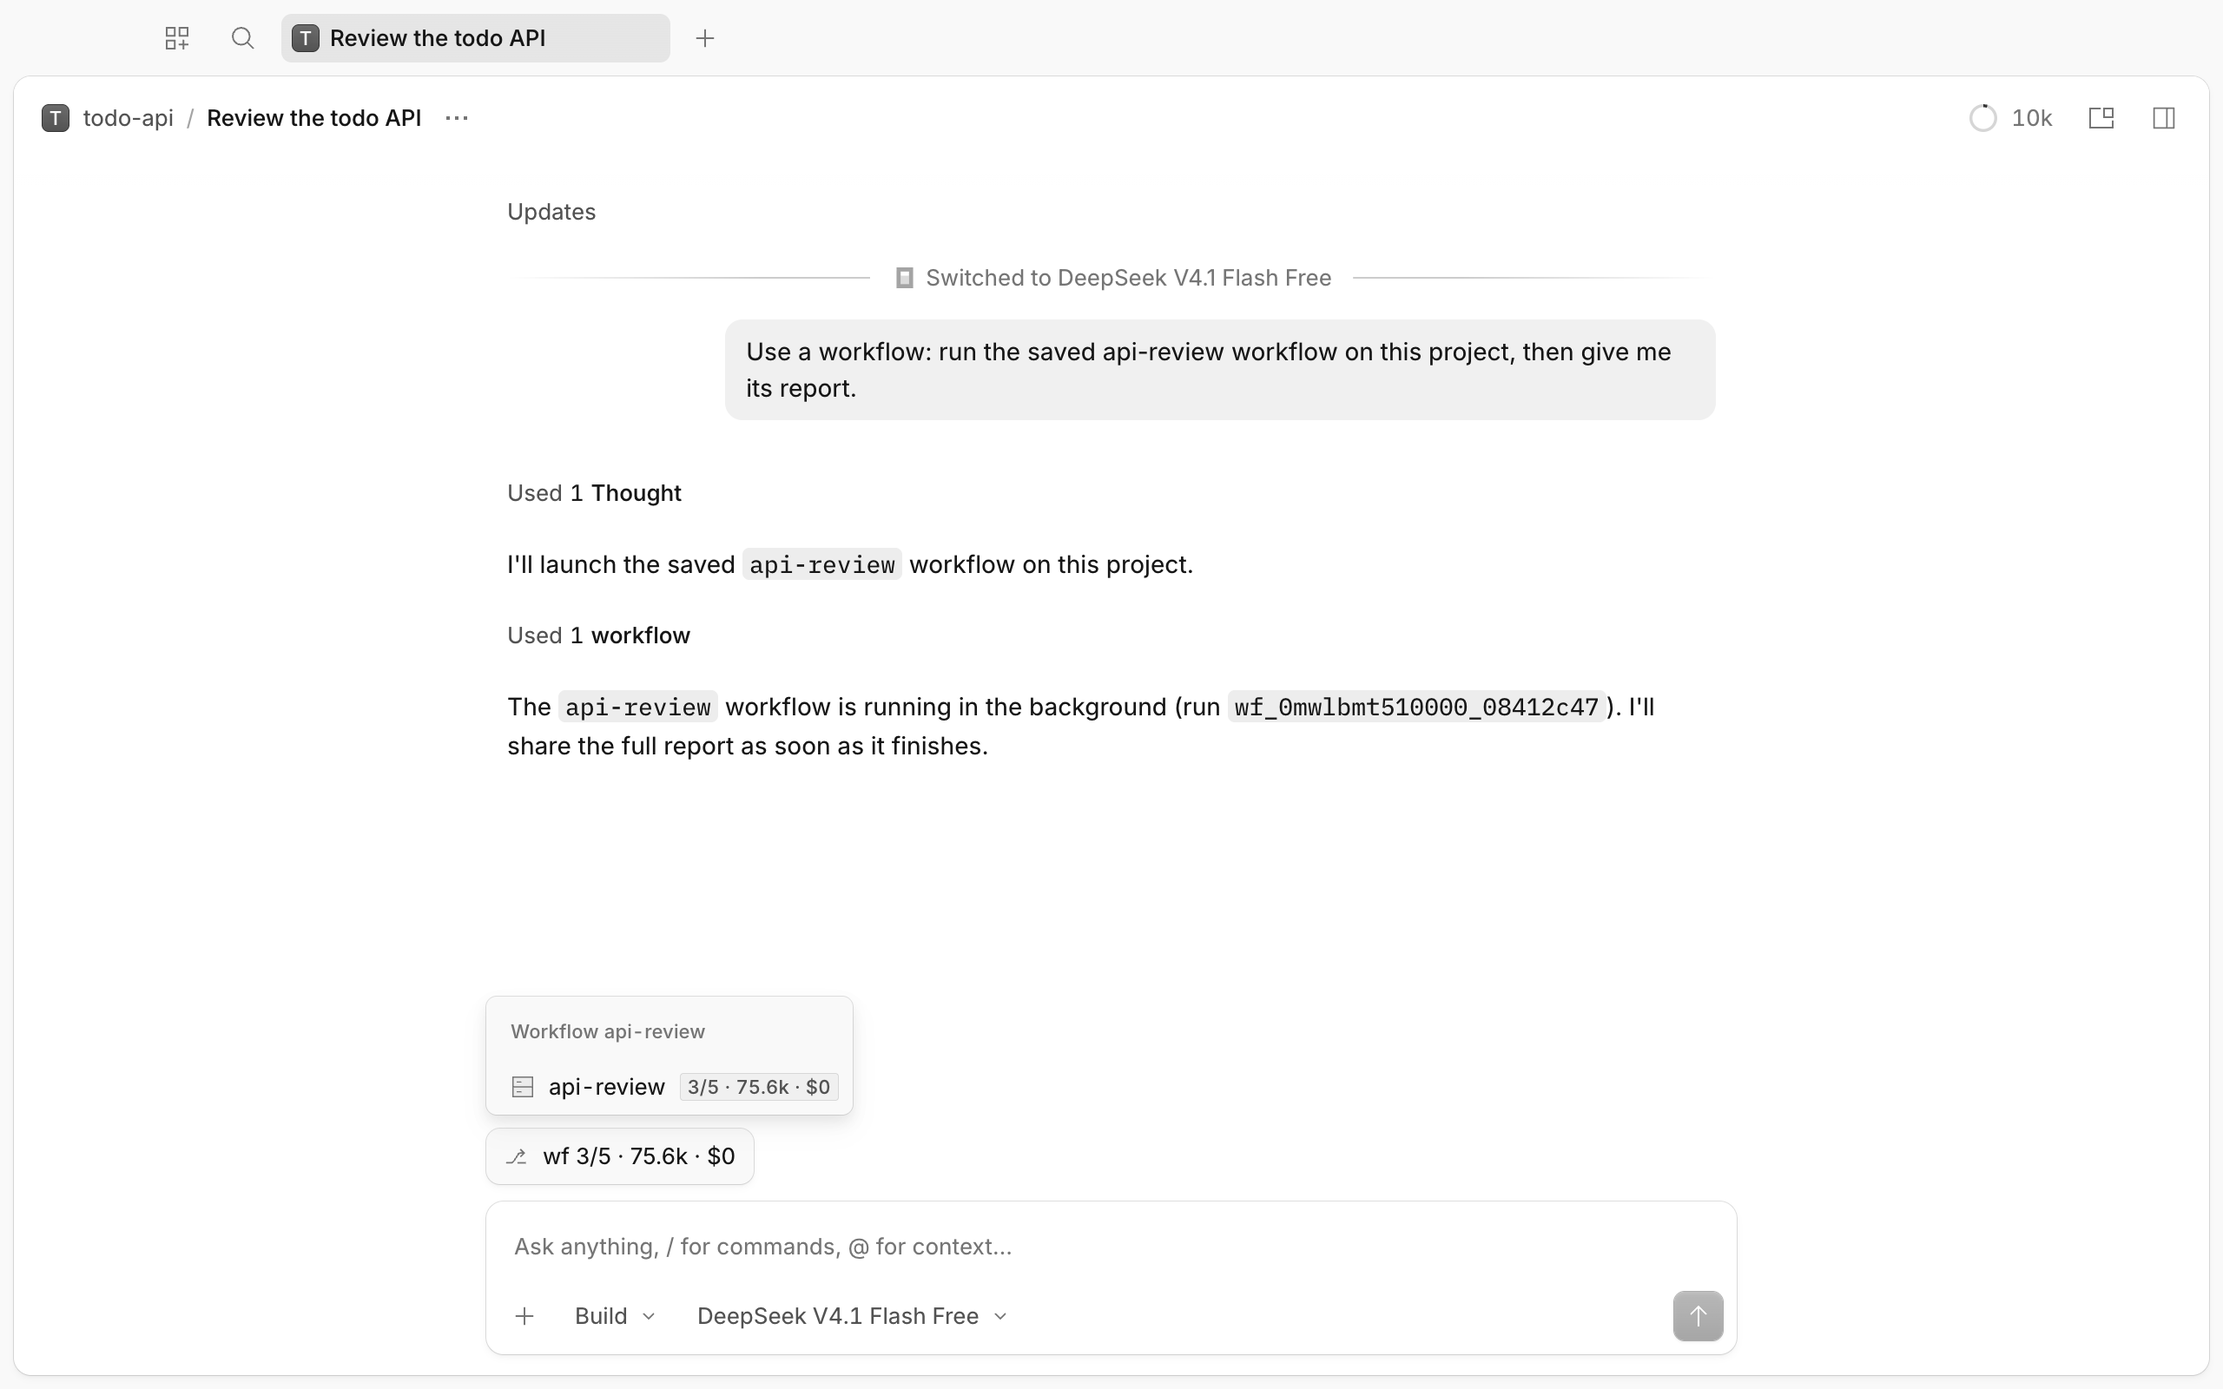
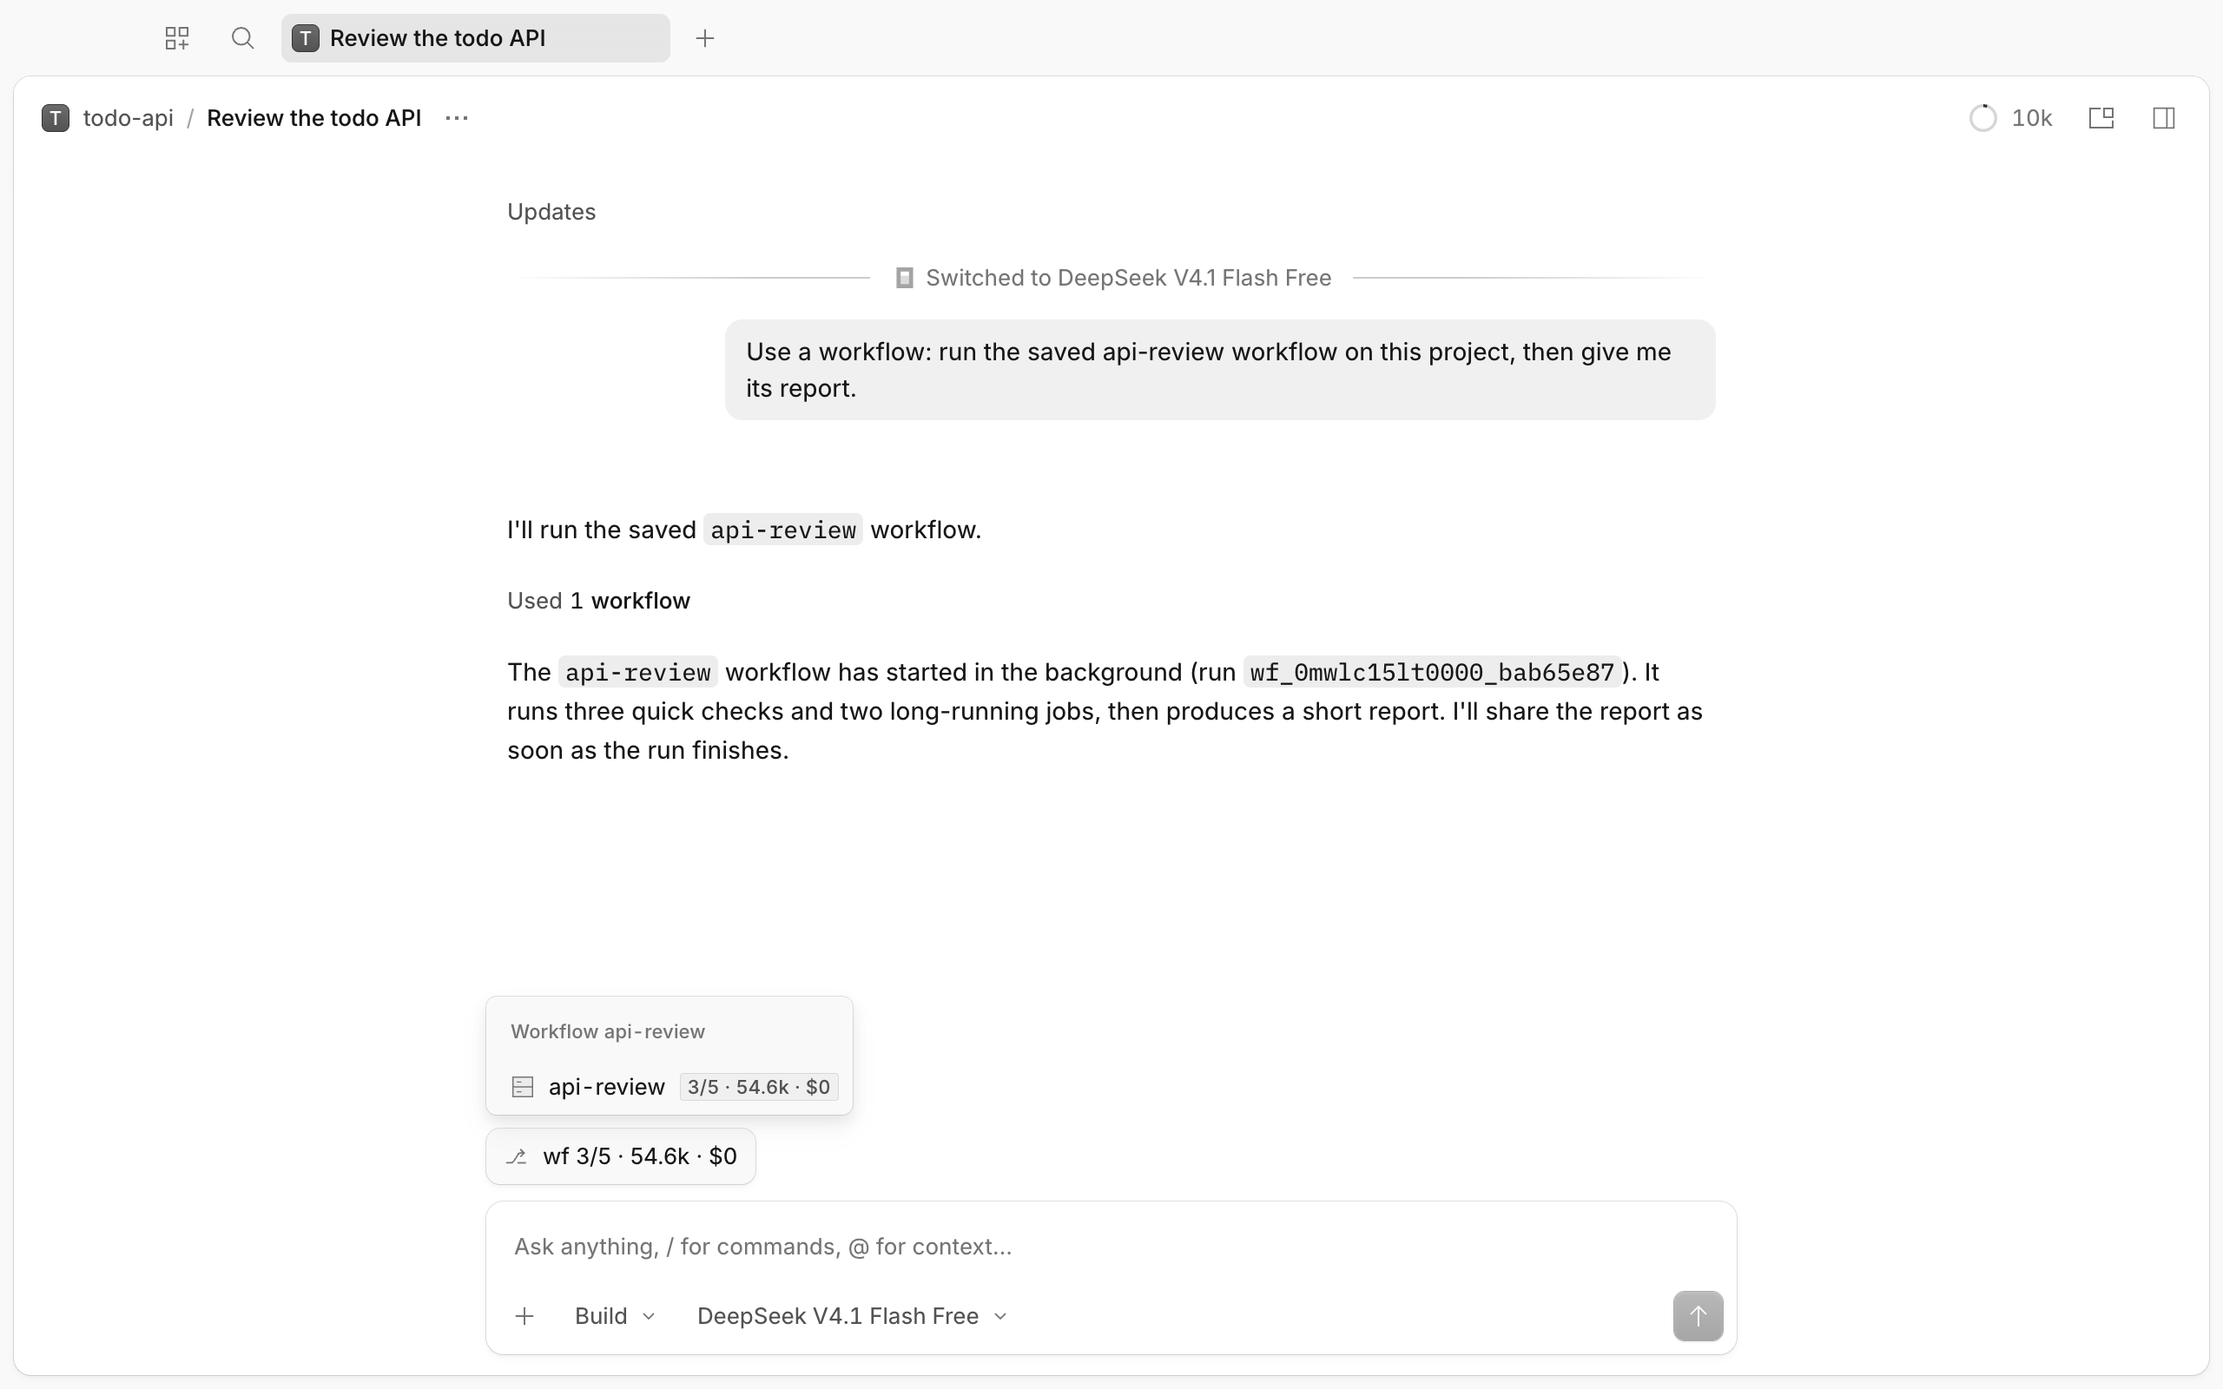
docs: retake the desktop screenshots with the panel fixes; child tab pill verified
The five desktop images are retaken after the panel fixes: the pending
Report phase shows ◌ 0/0, the panel is wider and the scope row no longer
wraps. The same live run showed the parent's pill in a workflow agent's
own tab, red after a stopped agent, so PARITY X28 and the README say so.
The finish notice (X30) is still unverified.

Claude-Session: https://claude.ai/code/session_01C7UiNLDHJAaxmvwGYahG8g

Changed region(s): [[0.2188, 0.3438, 0.75, 0.5625], [0.2812, 0.8125, 0.3438, 0.8438]]

diff --git a/docs/PARITY.md b/docs/PARITY.md
@@ -147,8 +147,8 @@ Design: [`docs/design/steering-and-live-tree.md`](design/steering-and-live-tree.
 | X25 | TUI agent dialog (`<leader>j`, palette "Workflows: agents (steer, stop, open)"): one searchable `ui.dialog.select` of the running and queued agents of the runs the tree shows (newest active run first, then by index), titled `#i label`, described `status · phase` (no model: the dialog cuts long descriptions without an ellipsis; the tree rows show it), grouped by workflow name, starting on the agent selected in the panel. Search: `#3` or `3` lists that index first, then labels starting with the query, then labels, phases, workflow names and run ids containing it. Enter steers the agent (the `m` prompt); footer actions `ctrl+u` urgent steer (`M`), `ctrl+d` stop after a confirm (`x`) and `ctrl+o` open its session (a tab when tabs are on); `ctrl+n`/`ctrl+p` stay the list's own keys. Every action re-reads the agent's current row, so an agent that finished meanwhile gets the panel's toast instead, and one no longer listed a toast. The prompt or confirm an action opens replaces the dialog | EXT (live-verified on 2.3.0 in a Linux TUI: the dialog listed the running agents, Enter sent a message that the agent answered with STEERED-OK, `ctrl+d` opened the stop confirmation; README screenshots) | `tui-client.test.ts` "X25 …" ×5 |
 | X26 | TUI sidebar (`sidebar.content` slot, after opencode's own sections): hidden when the session has no runs; a `Workflows` header with a collapse toggle only when there are more than two runs (the state is kept in the plugin's durable `storage.store`; collapsed, the header says `(1 running · $0.42)`: running and paused counts, or `n runs`, and the session's total cost); then up to 3 runs, active newest first, then the newest finished, then `+n more`. Each run: a dot colored by status, the name (≤ 24 cells), `<done>/<total>`, and a muted line: `[paused · ]<phase> · <n> running · <tokens> · $<cost>` while active (the last phase with running agents, else the first unfinished one), `<status> · <tokens> · $<cost>` once finished. Clicking a run opens the panel with that run selected and unfolded. A workflow child session's sidebar shows its parent's runs (the same mapping as the footer) | EXT (live-verified on 2.3.0 in a Linux TUI: the section showed the running run with its phase, running count, tokens and cost, and showed the parent's run from a workflow agent's session; folding not exercised; README screenshots) | `tui-client.test.ts` "X26 …" ×3 |
 | X27 | TUI cold start: on opencode 2.3 `rpc.call` no longer waits for plugins to load, so the tree's first `list` can fail with `rpc.unavailable`. A `list` that throws is retried after 250, 500, 1000, 2000 and 4000 ms, then the tree gives up and says `workflows RPC unavailable (…); use /workflows` (`workflows list failed (…)` for another error). While it retries an unavailable RPC the panel only says `loading…`; another error is shown with `(retrying)`. The attempts reset on a successful list, on a target change (viewed session, scope) and when the host reports `plugin.updated`; a `delta` from the target Location while the tree is not ready lists again at once. A `list` answered `{ok:false}` is shown, not retried. The driver is host-agnostic (`src/client/sync.ts`) | EXT (not live-verified on 2.3.0) | `tui-client.test.ts` "X27 …" ×7<br>unit `client.test.ts` |
-| X28 | Desktop app composer pill (`./gui-experimental` entry, `ComposerPill`): shown above a session's composer only while that session has an active run and the `dynamic-workflows` RPC of the session's server answered; label `wf <done>/<total> · <tokens> · $<cost>` of the newest active run (` +n` for more, the TUI footer's parts), its title (accessible name and menu heading) `Workflow <name>` (`Workflow <name> ‖ paused`); tone `danger` when an active run has an error or a failed agent, else `warning` when paused or with warnings; one menu row per active run (newest first, detail `<done>/<total> · <tokens> · $<cost>`) that opens the side panel with that run selected and unfolded. A workflow child's tab targets its parent session and the parent's Location (X15's rule). One sync (`TreeSync`, X27) per server and Location that an open tab needs, pruned when tabs close; calls go to the session's own server (`ctx.servers.get(id).client`), one event subscription per server, subscribed again on reconnect or a new client, with a resync every 15 s while a run is active. On a server whose plugin is absent, disabled or older, `list` fails: the pill stays hidden and the panel says why in one line; it retries on a routed-session change, a reconnect, `plugin.updated` or any delta. Missing fields read as defaults | EXT (live-verified on desktop 2.3.0, macOS: the label, the menu row, the row opening the panel on that run; not seen live: the warning and danger tones, `+n`, a workflow child's tab) | `gui.test.ts` "X28 …" ×7<br>unit `install-docs.test.ts` (bundle) |
-| X29 | Desktop app side panel `tree` (`Panel`, side region, `narrow` width, a mobile view; key `<plugin id>:tree`): opened by the command "Workflows: toggle the live progress tree" (also `/wf`), the side panel `+` menu, or a pill row. Rows from the TUI's `rowsFor` (run → phases → agents) with a status glyph, title and a muted detail line (status, counts, tokens, cost, elapsed, model, activity, messages, run id); icon buttons dispatch exactly `actionFor(row, key)`, each shown only when its action applies: fold (run, phase), open (an agent's or the run's session in a tab, not the one the panel is next to), pause/resume (run rows), stop (after a `danger` confirm), message and urgent message (`dialogs.prompt`); info and `control` answers as toasts. A switch shows this session's runs or every run of the project. Fold, scope and selection are kept per tab (session key), pruned when the tab closes | EXT (live-verified on desktop 2.3.0, macOS: the rows, open, stop after the `danger` confirm, message, the `control` toasts; not exercised live: fold, pause/resume, urgent message, the all-runs switch, `/wf`) | `gui.test.ts` "X29 …" ×6 |
+| X28 | Desktop app composer pill (`./gui-experimental` entry, `ComposerPill`): shown above a session's composer only while that session has an active run and the `dynamic-workflows` RPC of the session's server answered; label `wf <done>/<total> · <tokens> · $<cost>` of the newest active run (` +n` for more, the TUI footer's parts), its title (accessible name and menu heading) `Workflow <name>` (`Workflow <name> ‖ paused`); tone `danger` when an active run has an error or a failed agent, else `warning` when paused or with warnings; one menu row per active run (newest first, detail `<done>/<total> · <tokens> · $<cost>`) that opens the side panel with that run selected and unfolded. A workflow child's tab targets its parent session and the parent's Location (X15's rule). One sync (`TreeSync`, X27) per server and Location that an open tab needs, pruned when tabs close; calls go to the session's own server (`ctx.servers.get(id).client`), one event subscription per server, subscribed again on reconnect or a new client, with a resync every 15 s while a run is active. On a server whose plugin is absent, disabled or older, `list` fails: the pill stays hidden and the panel says why in one line; it retries on a routed-session change, a reconnect, `plugin.updated` or any delta. Missing fields read as defaults | EXT (live-verified on desktop 2.3.0, macOS: the label, the menu row, the row opening the panel on that run; a workflow child's tab, the danger tone after a stopped agent; not seen live: the warning tone, `+n`) | `gui.test.ts` "X28 …" ×7<br>unit `install-docs.test.ts` (bundle) |
+| X29 | Desktop app side panel `tree` (`Panel`, side region, 420 px wide by default, a mobile view; key `<plugin id>:tree`): opened by the command "Workflows: toggle the live progress tree" (also `/wf`), the side panel `+` menu, or a pill row. Rows from the TUI's `rowsFor` (run → phases → agents) with a status glyph, title and a muted detail line (status, counts, tokens, cost, elapsed, model, activity, messages, run id); icon buttons dispatch exactly `actionFor(row, key)`, each shown only when its action applies: fold (run, phase), open (an agent's or the run's session in a tab, not the one the panel is next to), pause/resume (run rows), stop (after a `danger` confirm), message and urgent message (`dialogs.prompt`); info and `control` answers as toasts. A switch shows this session's runs or every run of the project. Fold, scope and selection are kept per tab (session key), pruned when the tab closes | EXT (live-verified on desktop 2.3.0, macOS: the rows, open, stop after the `danger` confirm, message, the `control` toasts; not exercised live: fold, pause/resume, urgent message, the all-runs switch, `/wf`) | `gui.test.ts` "X29 …" ×6 |
 | X30 | Desktop app finish notice: when a run whose parent session is open in a tab (a workflow child's tab counts for its parent) finishes, `attention.notify({title: "Workflow <name> <status>", message: "<n> agents · <tokens> tokens · $<cost> · <time>", variant: "error" for failed else "default", session: {server, id: parent}, id: "dynamic-workflows:<server>:<runId>"})`: the user's Agent or Errors notification settings apply, a click opens the parent session, and the id sends it once across the app's windows. When no system notification was shown, a toast instead, only in the focused window or one showing that session | EXT (not live-verified: no finish notice was checked in the live desktop run) | `gui.test.ts` "X30 …" ×4 |
 | X31 | opencode 2.3+ background jobs: opencode's `subagent` tool always runs in the background, and `session.wait()` awaits executions, not jobs. The `experimental.idle` hook (X22) reports a workflow child's own running subagent and image jobs (`event.background`) to `ctx.storage`, so the hook of a worktree child's instance does too; while any runs the hook keeps the message window open and sends no nudge (X23). After `wait()` the runner keeps waiting while the latest report lists jobs: each job's `<subagent>` report wakes the child into a new execution, and once a report lists none the runner waits for that execution and reads the reply after it, so `agent()` gets the agent's answer, a schema agent spends no attempt while its job runs, and no turn runs unread after the agent settled. Background shells are not waited for (one may run for good). The wait ends on stop or the agent timeout, and after 30 min with a warning that the result was read without the job; a worktree a job may still use is then kept (and on a stop). The report record exists only while the agent runs, so a late report leaves nothing behind. Without the hook (2.0.15, `OPENCODE_WORKFLOW_IDLE_HOOK=0`) nothing waits | EXT (source-verified, not live-verified on 2.3.0: `core/tool/plugin/subagent.ts`, `core/session/run-coordinator.ts`, `core/session/runner/llm.ts`) | `extensions.test.ts` "X31 …" ×1<br>unit `background.test.ts` "X31 …" ×8 |
 

diff --git a/README.md b/README.md
@@ -459,8 +459,8 @@ curl -u opencode:$OPENCODE_PASSWORD -H "content-type: application/json" \
 
 opencode's desktop app (2.3) can load a plugin's GUI part, and this plugin ships one
 (`dist/gui-experimental.cjs`, the `./gui-experimental` export). opencode marks this plugin API as
-experimental. The pill, the tree panel, steering and stop were checked live in the macOS desktop app
-2.3.0 (the screenshots below); the finish notice and a workflow agent's own tab were not.
+experimental. The pill (also in a workflow agent's own tab), the tree panel, steering and stop were
+checked live in the macOS desktop app 2.3.0 (the screenshots below); the finish notice was not.
 
 - **Composer pill.** While a run of the session is active, a pill above the composer shows
   `wf <done>/<total> · <tokens> · $<cost>` (`+n` when more runs are active). It turns orange when a
@@ -477,9 +477,9 @@ experimental. The pill, the tree panel, steering and stop were checked live in t
   opens the session. If none was shown (for example because the app has focus), you get a toast.
 - From a workflow agent's own tab, the pill and the tree show the parent's run.
 
-![The desktop app's composer pill "wf 3/5 · 75.6k · $0" above the composer, with its menu open: a heading "Workflow api-review" and one row, api-review 3/5 · 75.6k · $0](docs/assets/desktop-pill.png)
+![The desktop app's composer pill "wf 3/5 · 54.6k · $0" above the composer, with its menu open: a heading "Workflow api-review" and one row, api-review 3/5 · 54.6k · $0](docs/assets/desktop-pill.png)
 
-![The tree in the desktop app's side panel next to the session: the api-review run, its Scan phase with three completed agents on their models and two running slow agents with stop, message and urgent-message buttons, and the Report phase with its model label](docs/assets/desktop-tree-panel.png)
+![The tree in the desktop app's side panel next to the session: the api-review run, its Scan phase with three completed agents on their models and two running slow agents with stop, message and urgent-message buttons, and the Report phase, not started yet (◌ 0/0), with its model label](docs/assets/desktop-tree-panel.png)
 
 | Steer an agent | Stop an agent | Finished run |
 |---|---|---|

diff --git a/docs/E2E.md b/docs/E2E.md
@@ -216,15 +216,18 @@ your own:
    agents (one with `effort:'low'`, one on `opencode/glm-5.3-flash-free`), two agents that call
    `slow_step` ten times, and a `Report` phase labeled and run on `opencode/mimo-v2.6-flash-free`.
    Type the request in the composer (the `Prompt` textbox), then click the pill, its menu row, a row's
-   Message and Stop buttons, and Open session. Screenshots are `page.screenshot` at the window's
+   Message and Stop buttons, and Open session (while the run is still active, to see the pill there). Screenshots are `page.screenshot` at the window's
    device scale factor (2).
 6. Quit only the app and the `opencode-cli serve --service` whose paths are in your sandbox.
 
 Seen on 2.3.0: the pill appeared 2 s after the launch (`wf 0/5 · 0 · $0`), its menu row opened the
 panel on the run, the rows showed each agent's model (`…#low`, the other models) and live
 `» slow_step {"n":…}` activity, a message reached `#4` (its reply ended `STEERED-OK`, the run said
-`1 steered`), and the stop ended `#3` as failed, "stopped by user". The finish notice was not checked.
-A pending phase with no agents yet shows ✓ (`0/0`) in the panel.
+`1 steered`), the stop ended `#3` as failed, "stopped by user", and `#4`'s own tab showed the parent's
+pill (red after the stop). The finish notice was not checked.
+The first run also showed two panel faults, fixed before the final shots: a declared phase with no
+agents yet showed ✓ (`0/0`), and at the `narrow` width the agent rows cut off their model and the
+scope switch wrapped its label and description side by side.
 
 ## What is covered (live)
 
